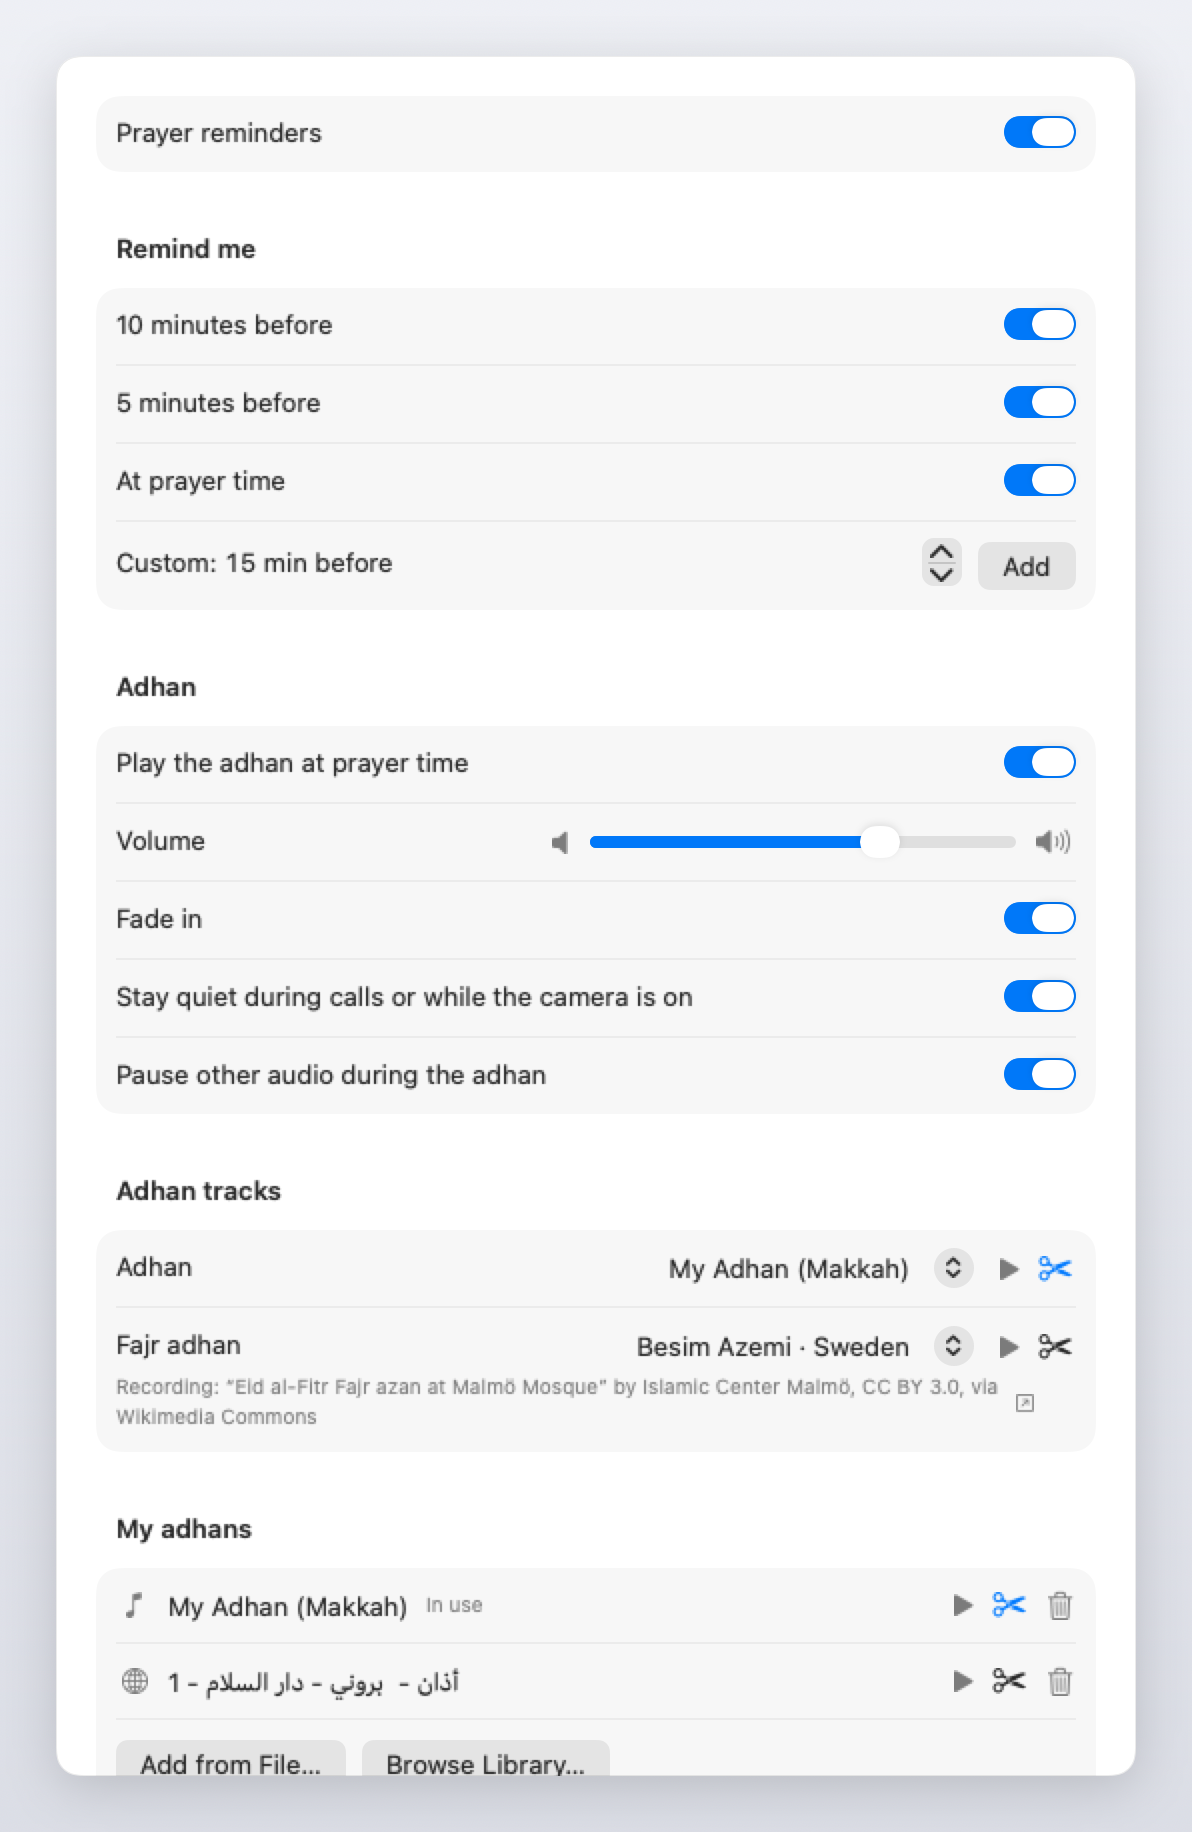
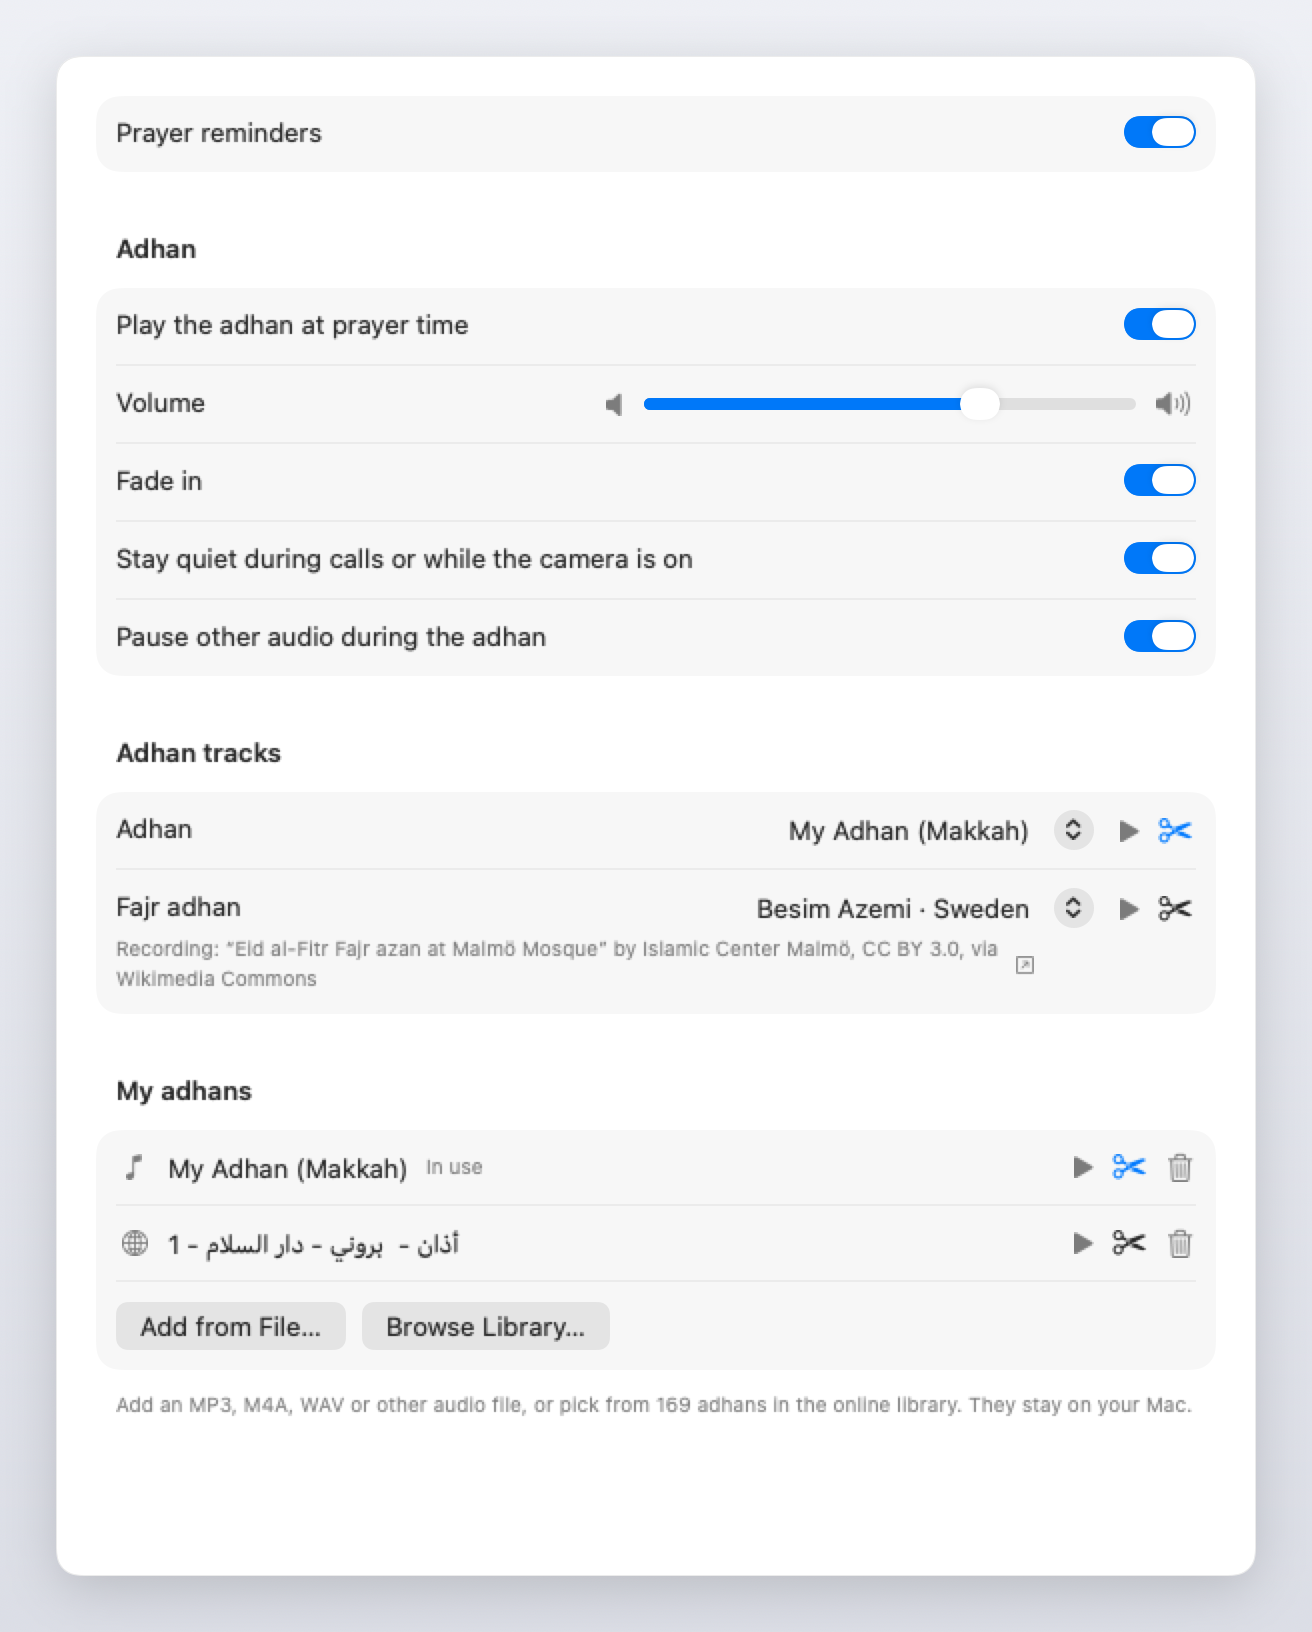
Release 2.10.0

diff --git a/README.md b/README.md
@@ -288,15 +288,33 @@ Click the countdown in the menu bar to open the panel. It shows:
   surah, and a progress bar you can click or drag to jump within the surah
 - **Quran…**, **Settings…** and **Quit Salah Bar**
 
+### Welcome
+
+On first launch, Salah Bar greets you with the hadith it's built around, and
+asks for Location (to calculate your prayer times) and Notifications:
+
+> I asked the Prophet ﷺ: *"Which deed is most beloved to Allah?"* He said:
+> **"Prayer at its time."** (Ibn Masʿud; Sahih al-Bukhari 527, Sahih Muslim 85)
+
+| Welcome | Settings |
+|---|---|
+| ![The welcome window](assets/screenshots/welcome-en.png) | ![Settings, General](assets/screenshots/settings-general-en.png) |
+
 ### Settings
 
-| Tab | What you can change |
+Settings is laid out like System Settings: pages in a sidebar, each with its
+own icon, and the hadith at the top of **General**.
+
+| Page | What you can change |
 |---|---|
 | **General** | Language (English, Turkish or Arabic), Arabic-Indic digits, seconds in the menu bar, launch at login, automatic updates |
 | **Location** | Automatic location or a saved city, city search, adding a city by coordinates |
-| **Calculation** | Calculation method, Asr school (Standard or Hanafi), per-prayer minute adjustments, Hijri date correction (±2 days), Ramadan mode |
-| **Notifications** | When to remind you (10, 5 and 0 minutes before, or your own), adhan on/off, volume, fade-in, adhan and Fajr adhan tracks with preview and trimming, **My adhans** (your own files and the online library), staying quiet during calls |
+| **Prayer Times** | Calculation method, Asr school (Standard or Hanafi), per-prayer minute adjustments, Hijri date correction (±2 days), Ramadan mode |
+| **Iqama** | Your mosque's iqama for each prayer and for Jumu'ah, and a reminder before it |
+| **Reminders** | When to remind you (10, 5 and 0 minutes before, or your own), and the Friday and Sunnah reminders |
+| **Adhan** | Adhan on/off, volume, fade-in, staying quiet during calls, pausing other audio, adhan and Fajr adhan tracks with preview and trimming, **My adhans** (your own files and the online library) |
 | **Quran** | What happens when the adhan is due while the Quran plays, playing on to the next surah, downloads and the space they use |
+| **Calendar** | Warnings when a meeting overlaps a prayer, and prayer blocks in your calendar |
 | **Appearance** | The "prayer is near" flash warning (minutes before, menu bar blink, screen-edge glow with a Preview), the ayah & dua (on/off, change every 15 min to once a day, which kinds) and the theme (System, Light or Dark) |
 | **Advanced** | Remove the old SwiftBar version, import its settings again, open the logs folder |
 
@@ -329,7 +347,9 @@ search in English, Arabic or Turkish), then press ▶ next to any surah.
   whole range, a pause between repeats and the speed. The Arabic text follows along
   with the current ayah highlighted. It works with the many reciters that mp3quran.net
   publishes ayah timings for, such as Alafasy, Husary, Minshawi, Abdul Basit, Sudais
-  and Ghamdi. Text from [Tanzil.net](https://tanzil.net).
+  and Ghamdi, plus more (Mohammed Jibreel, Yasser Salamah, Maher Al-Muaiqly…) with
+  ayah-by-ayah audio from [EveryAyah.com](https://everyayah.com). Text from
+  [Tanzil.net](https://tanzil.net).
 - **At prayer time** the recitation fades out, the adhan plays, then the
   recitation carries on. In **Settings → Quran** you can instead keep it paused
   after the adhan, or keep listening with no adhan.
@@ -342,18 +362,18 @@ Recitations are from [mp3quran.net](https://mp3quran.net).
 
 ### More for every prayer
 
-- **Iqama times** (Settings → Calculation → Iqama): set each prayer's iqama as minutes
+- **Iqama times** (Settings → Iqama): set each prayer's iqama as minutes
   after the adhan or a fixed time, plus a separate Jumu'ah time. The panel counts
   down to the iqama after each adhan, and can remind you before it.
 - **Prayer log**: in the panel, click the circle next to a prayer once its time has
   begun (or press **Prayed ✓** on the prayer's notification). **Prayer Log…** shows
   your streak and the last 7 or 30 days. Turn on **Count missed prayers as qada** to
   keep a count of prayers to make up. Everything stays on your Mac.
-- **Calendar** (Settings → General → Calendar, off by default): Salah Bar warns you
+- **Calendar** (Settings → Calendar, off by default): Salah Bar warns you
   when a meeting overlaps a prayer, e.g. *"Your 13:00 meeting overlaps Dhuhr (13:04)"*,
   and can add short busy "Dhuhr", "Asr"… blocks to a calendar you choose. It only
   ever changes the blocks it made.
-- **Friday and Sunnah reminders** (Settings → Notifications): on Fridays, a reminder
+- **Friday and Sunnah reminders** (Settings → Reminders): on Fridays, a reminder
   to read Al-Kahf with a button to play it; optional reminders the evening before
   Monday, Thursday and White Days (13–15) fasts, and for the last third of the night.
 - **Pause other audio during the adhan**: music or a video in another app pauses
@@ -382,9 +402,9 @@ Large widget says **It's prayer time** with that prayer and the ayah
 
 ### Choosing your adhan
 
-![Notifications settings](assets/screenshots/settings-notifications-en.png)
+![Adhan settings](assets/screenshots/settings-notifications-en.png)
 
-In **Settings → Notifications** pick the adhan for the five prayers and,
+In **Settings → Adhan** pick the adhan for the five prayers and,
 optionally, a different one for Fajr. Press ▶ to hear it.
 
 - **Built in:** 17 adhans from Makkah, Madinah, Egypt, Qatar, Morocco and more, including 6 openly licensed recordings from Wikimedia Commons and Freesound (credited under the picker and in [THIRD_PARTY_NOTICES.md](THIRD_PARTY_NOTICES.md)).
@@ -444,7 +464,7 @@ is running), it quits by itself.
 
 ### Staying quiet during calls
 
-With **Settings → Notifications → Stay quiet during calls or while the camera
+With **Settings → Adhan → Stay quiet during calls or while the camera
 is on**, Salah Bar doesn't play the adhan while your microphone or camera is in
 use. You still get the notification, and the panel tells you why the adhan was
 muted.
@@ -581,7 +601,7 @@ Salah Bar calculates prayer times on your Mac. It doesn't download them.
   [Aladhan](https://aladhan.com) within 1 minute. Other methods use the same
   calculation, but haven't been checked against official tables yet, so they
   are marked *(approx.)* in Settings.
-- **Adjustments** in **Settings → Calculation** are added on top of the
+- **Adjustments** in **Settings → Prayer Times** are added on top of the
   method's own built-in adjustments. For example, Diyanet already moves Dhuhr
   by +5 minutes, so +1 there gives +6 in total.
 
@@ -616,7 +636,7 @@ published here under the LGPL-3.0 as its licence requires (see
 
 Salah Bar is free and has no ads. If it helps you keep your
 prayers, you can support its development. The **♥ Support Salah Bar** button in
-the menu panel and in **Settings → General** takes you straight there.
+the menu panel and in **Settings → Support Salah Bar** takes you straight there.
 
 - ☕ **[Buy Me a Coffee](https://buymeacoffee.com/be_liever95)**: a one-time or monthly gift by card or Apple Pay, no account needed
 - 💖 **[Sponsor on GitHub](https://github.com/sponsors/be-liever95)**: if you have a GitHub account

diff --git a/THIRD_PARTY_NOTICES.md b/THIRD_PARTY_NOTICES.md
@@ -29,8 +29,8 @@ Copyright (c) 2007–2026 Tanzil Project, https://tanzil.net, licensed under
 Creative Commons Attribution 3.0 and used verbatim under its terms of use:
 the text is not changed, its source is credited with a link to tanzil.net in
 the Hifz view ("Text: Tanzil.net"), and Tanzil's copyright notice is kept in
-the bundled file. Ayah timings for Hifz mode come from mp3quran.net's API
-(see below).
+the bundled file. Ayah timings for Hifz mode come from mp3quran.net's API,
+and ayah-by-ayah audio from EveryAyah.com (see below).
 
 ## Translations
 English quotes use **Sahih International**; Turkish quotes use the
@@ -44,6 +44,23 @@ list bundled with the app comes from the same API. mp3quran.net's policy
 available to everyone, and we allow any visitor or developer to copy any
 material or use any link on the websites". The recordings belong to their
 reciters and producers and are not covered by Salah Bar's license.
+
+## EveryAyah (Hifz mode)
+For recitations that mp3quran.net has no ayah timings for, Hifz
+(memorisation) mode downloads the ayahs it repeats, one MP3 per ayah, from
+**EveryAyah.com** (formerly VerseByVerseQuran.com), https://everyayah.com,
+and keeps them on the Mac (Application Support/Salah Bar/Quran/everyayah).
+Which EveryAyah folder belongs to which recitation is listed in
+`app/Packages/SalahCore/Sources/SalahCore/Quran/EveryAyah.swift`.
+EveryAyah publishes no terms of use on its site today. Its timing files
+(https://everyayah.com/data/timings_files/000_disclaimer.txt) ask products
+that use them to link back to the site, and its former licence page
+(versebyversequran.com/site/license, 2012) pointed to Creative Commons
+Attribution-NonCommercial 2.5 Canada. Salah Bar credits it with a link in
+the Hifz view ("Audio: EveryAyah.com"), plays the recordings unchanged
+(only the files' ID3 tags, and any stray bytes before the audio, are
+removed) and is free. The recordings belong to their reciters and producers
+and are not covered by Salah Bar's license.
 
 ## Adhan recordings
 These bundled recordings are used under open licences (Salah Bar trims them,
